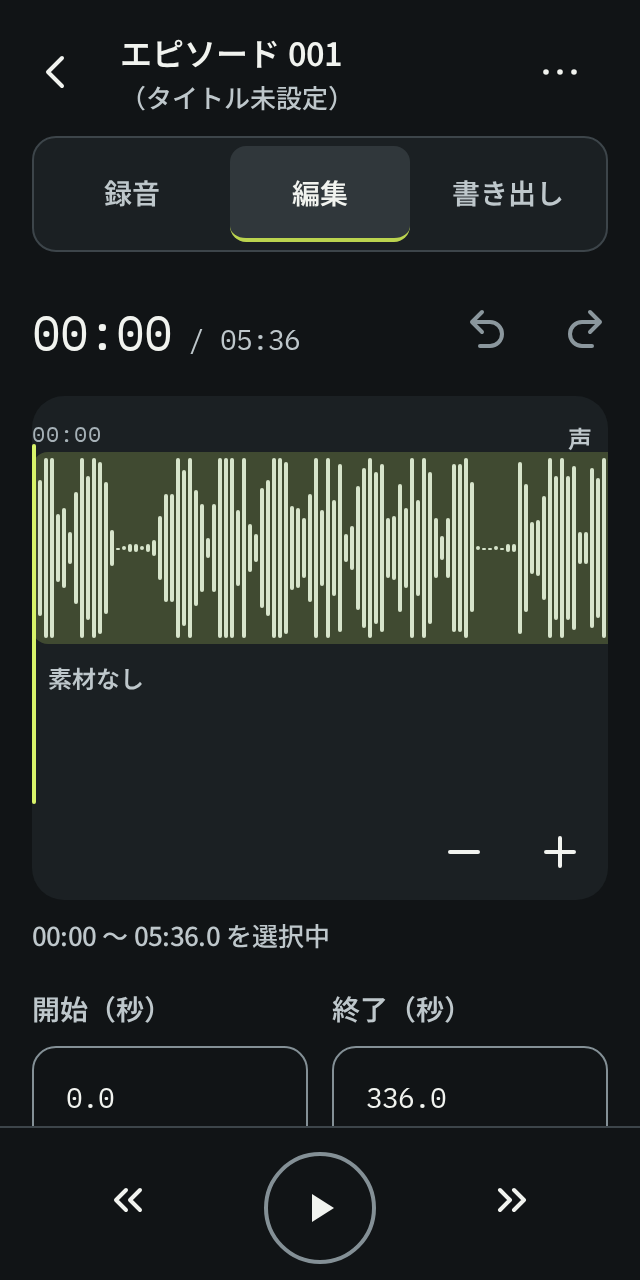
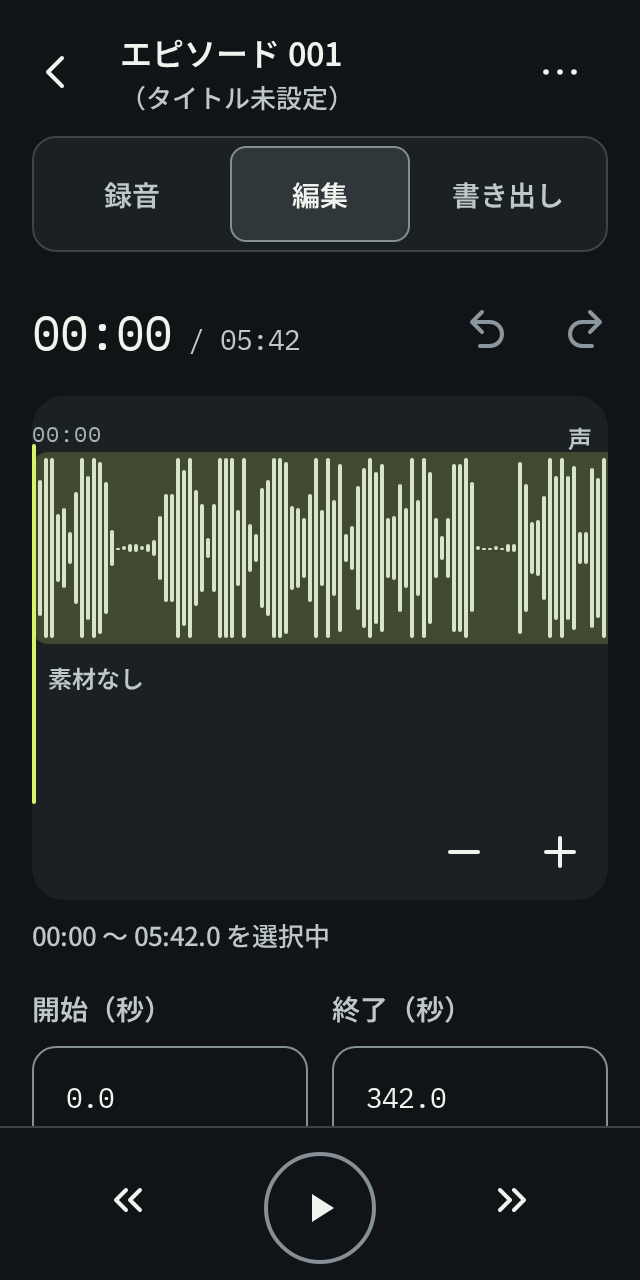
docs(verify): 画面を撮り直し、#96 の差分と検出ツールの結果を記録する
Web 検証ハーネスは Metro のキャッシュで古い画面が残ったため --clear を付けた。

Refs #96

Claude-Session: https://claude.ai/code/session_017wzgxY9gxDJUtYqNtCk4GR

diff --git a/docs/design-refresh/README.md b/docs/design-refresh/README.md
@@ -29,7 +29,7 @@
 
 | 設計 | 現行（#93）| 扱い | 理由 |
 |---|---|---|---|
-| 収録 / 編集 の 2 モード | 録音 / 編集 / 書き出し の 3 タブ | 3 タブのまま、Segmented を設計の見た目（選択の下線・面）にした | FR-EP-5、docs/ux-restructure.md §3 |
+| 収録 / 編集 の 2 モード | 録音 / 編集 / 書き出し の 3 タブ | 3 タブのまま、Segmented を設計の見た目（選択の下線・面）にした。#96 で下線はやめ、面と輪郭に変えた（§9） | FR-EP-5、docs/ux-restructure.md §3 |
 | 「マーカーを打つ」 | マーカーは廃止し「言い直す」 | 収録操作バーに「言い直す」を置いた | #93 でデータモデルから外れている（DATA_MODEL §4.10）。マーカーを戻すとデータ契約が変わる |
 | 04 音の仕上げ / 05 詳細 / 06 書き出し の別画面 | 書き出しタブのセクション | 書き出しタブ内に「音の仕上げ」「エピソードの詳細」「書き出し」「履歴」を順に置いた | #93 で 4 画面を畳んだ |
 | エピソードトップ画面（§8.2） | 廃止済み | 作らない | #93 |
@@ -163,3 +163,35 @@ safe area とホームインジケータ、キーボード、VoiceOver / TalkBac
 - セキュリティ: 新たな通信・解析・クリップボード読取は無い。共有とコピーはユーザー操作のときだけ。
   書き出しの失敗理由（ネイティブのエラーメッセージ）を画面にそのまま出す既存の挙動は残っている。
   パスなどが含まれる場合は表示に出る【仮説: ネイティブのメッセージ内容は未確認】。
+
+## 9. 設計から外した定型（Issue #96）【事実】
+
+刷新後に「AI 生成に見える UI」の監査をした。自動検出は slop-detect（27 項目）と Impeccable、手作業は
+コードと画面の確認。紫・グラデーション・グラス・発光・絵文字アイコンなどの典型は元から無かったが、
+次の定型は設計の画面例どおりに入っていたので外した。規則は DESIGN_SYSTEM.md §2.1–§2.2。
+
+| 設計（#94 で実装した形） | #96 の形 |
+|---|---|
+| Home の番組名の上の「あなたの番組」、制作中カードの「制作中」 | 置かない。制作中カードはタイトル → `EP. 003 · 12:34` → 状態 → 動詞のボタン |
+| 英語の `YOUR SHOW` `IN PROGRESS` `VOICE` `SOUNDS`、状態の `NEW` | 文頭だけ大文字。`NEW` は「未録音 / Not recorded」（何が新しいのかを言う） |
+| 配信の準備の冒頭のチェック円・「音声を書き出しました。」・「音声とテキストを配信サービスへ。」 | 置かない。ファイル（名前・尺・サイズ）と共有を最初に出す。話数の色付きタイルも外した |
+| ファイルが無いとき、ファイルのカードの中にエラー通知を入れ子 | 通知はカードの外（上）に出し、カードの共有ボタンを無効にする |
+| Segmented の選択を下辺 2px のシトロン線で示す | 一段明るい面 + 輪郭 1 周 + 文字色 |
+| ボタンの中の「→」（編集を続ける、次へ：〇〇、書き出しへ進む、エピソードを開く） | 外した。移動する行の末尾のシェブロンは OS の慣習なので残した |
+| キャッチコピー調の文言（「最初の1本を、ここから。」「タイトルはあとで大丈夫。」など） | 平叙の説明（「エピソードはまだありません」「タイトルと概要は録音のあとで入力できます」） |
+| バックアップ・復元のヘッダー補足とリード文の二重説明、素材画面のリード文、言語・テーマの「すぐに反映されます」 | 一つにまとめるか、削った |
+| `heading` 18px（本文 16px との差が小さく、slop-detect の「平坦な文字階層」に該当） | 20 / 28 |
+
+監査のときの注意: Web 描画の DOM を保存して検出ツールにかけるときは `<script>` を外す。残すと読み込み時に
+アプリが起動し直し、「ルートが見つからない」画面を測ってしまう。
+
+
+検出ツールの結果（#96 の後、Web 描画 7 画面 × ダーク / ライト）:
+
+- slop-detect: 14 画面とも Clean（0〜3 / 100）。残る 1 項目は「平坦な文字階層」（最大と最小の文字サイズの比が
+  2.0 未満）。書き出し・配信の準備・設定はヘッダーが 16–20px で、比を 2.0 にするには全画面に 26px 以上の
+  見出しが要る。これはランディングページ向けの基準で、モバイルのナビゲーションの見出し（iOS は 17pt）に
+  合わないので追わない。
+- Impeccable: 角丸の片側の線（`border-accent-on-rounded`）は 0 件になった。残りは無効ボタンの文字の
+  コントラスト（WCAG 1.4.3 は無効な部品を対象外とする）、波形の切り抜き（意図どおり）、
+  react-native-safe-area-context の Web 版が使う `padding` の transition（Web 描画だけ）。
